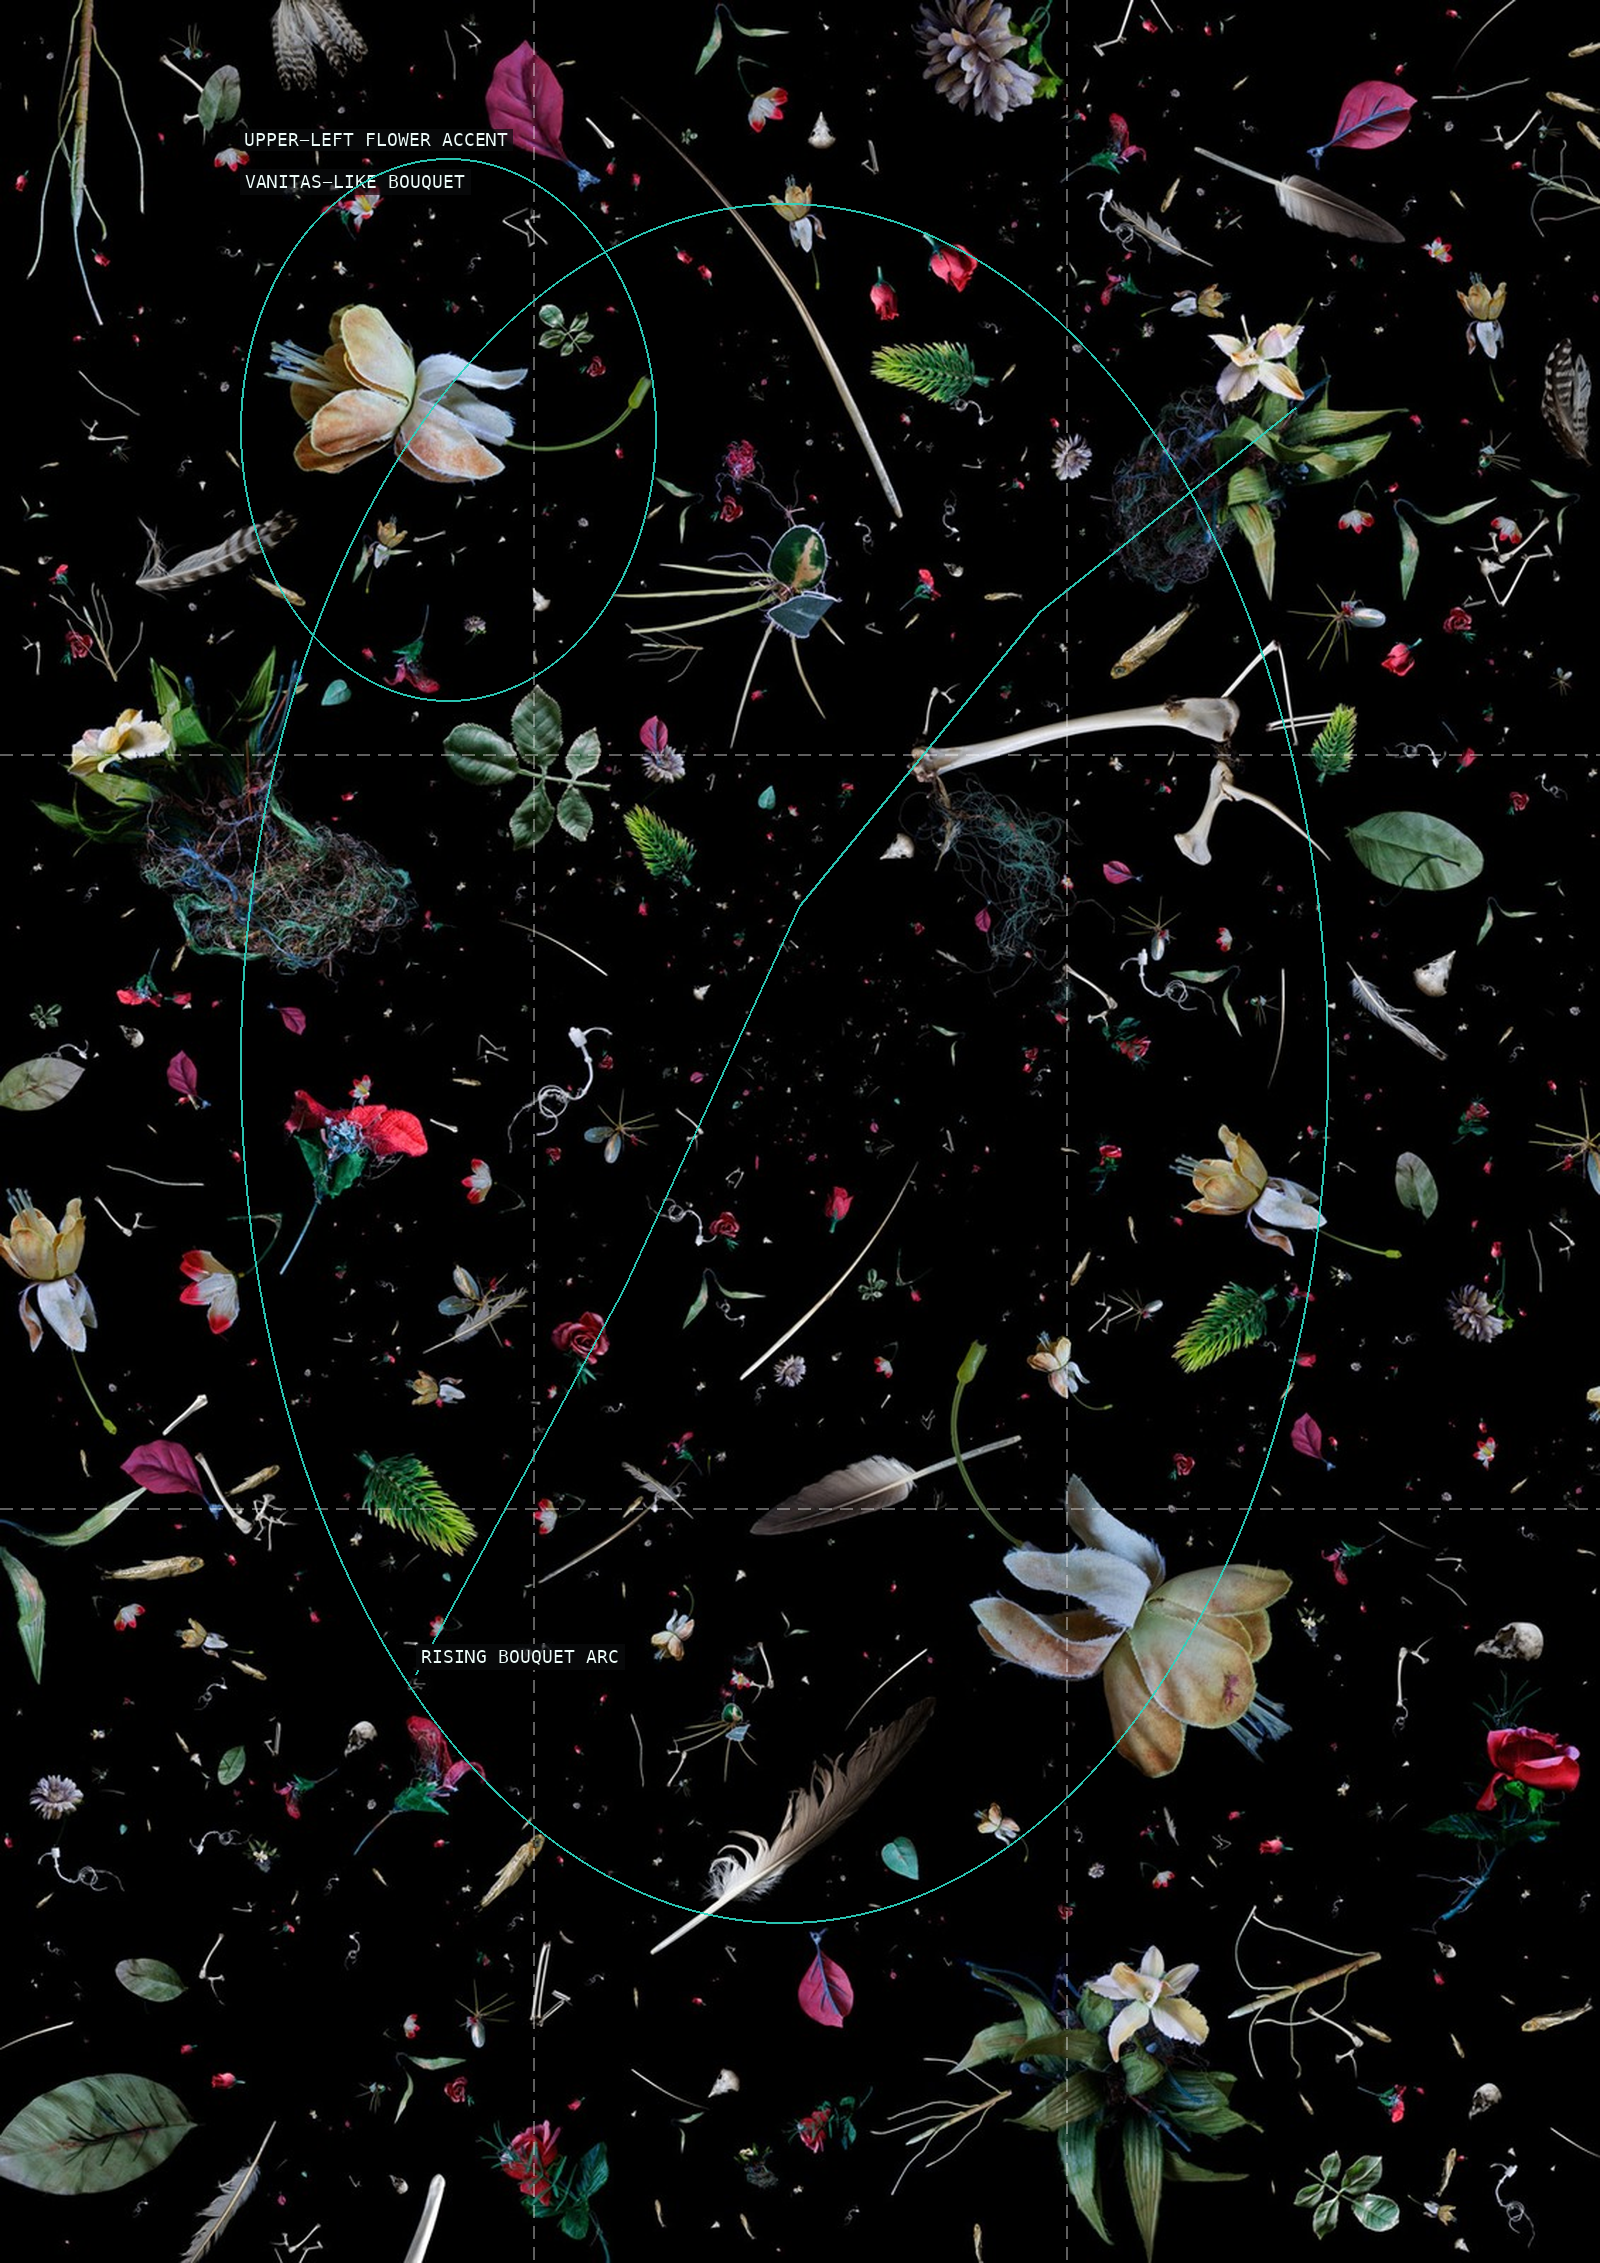
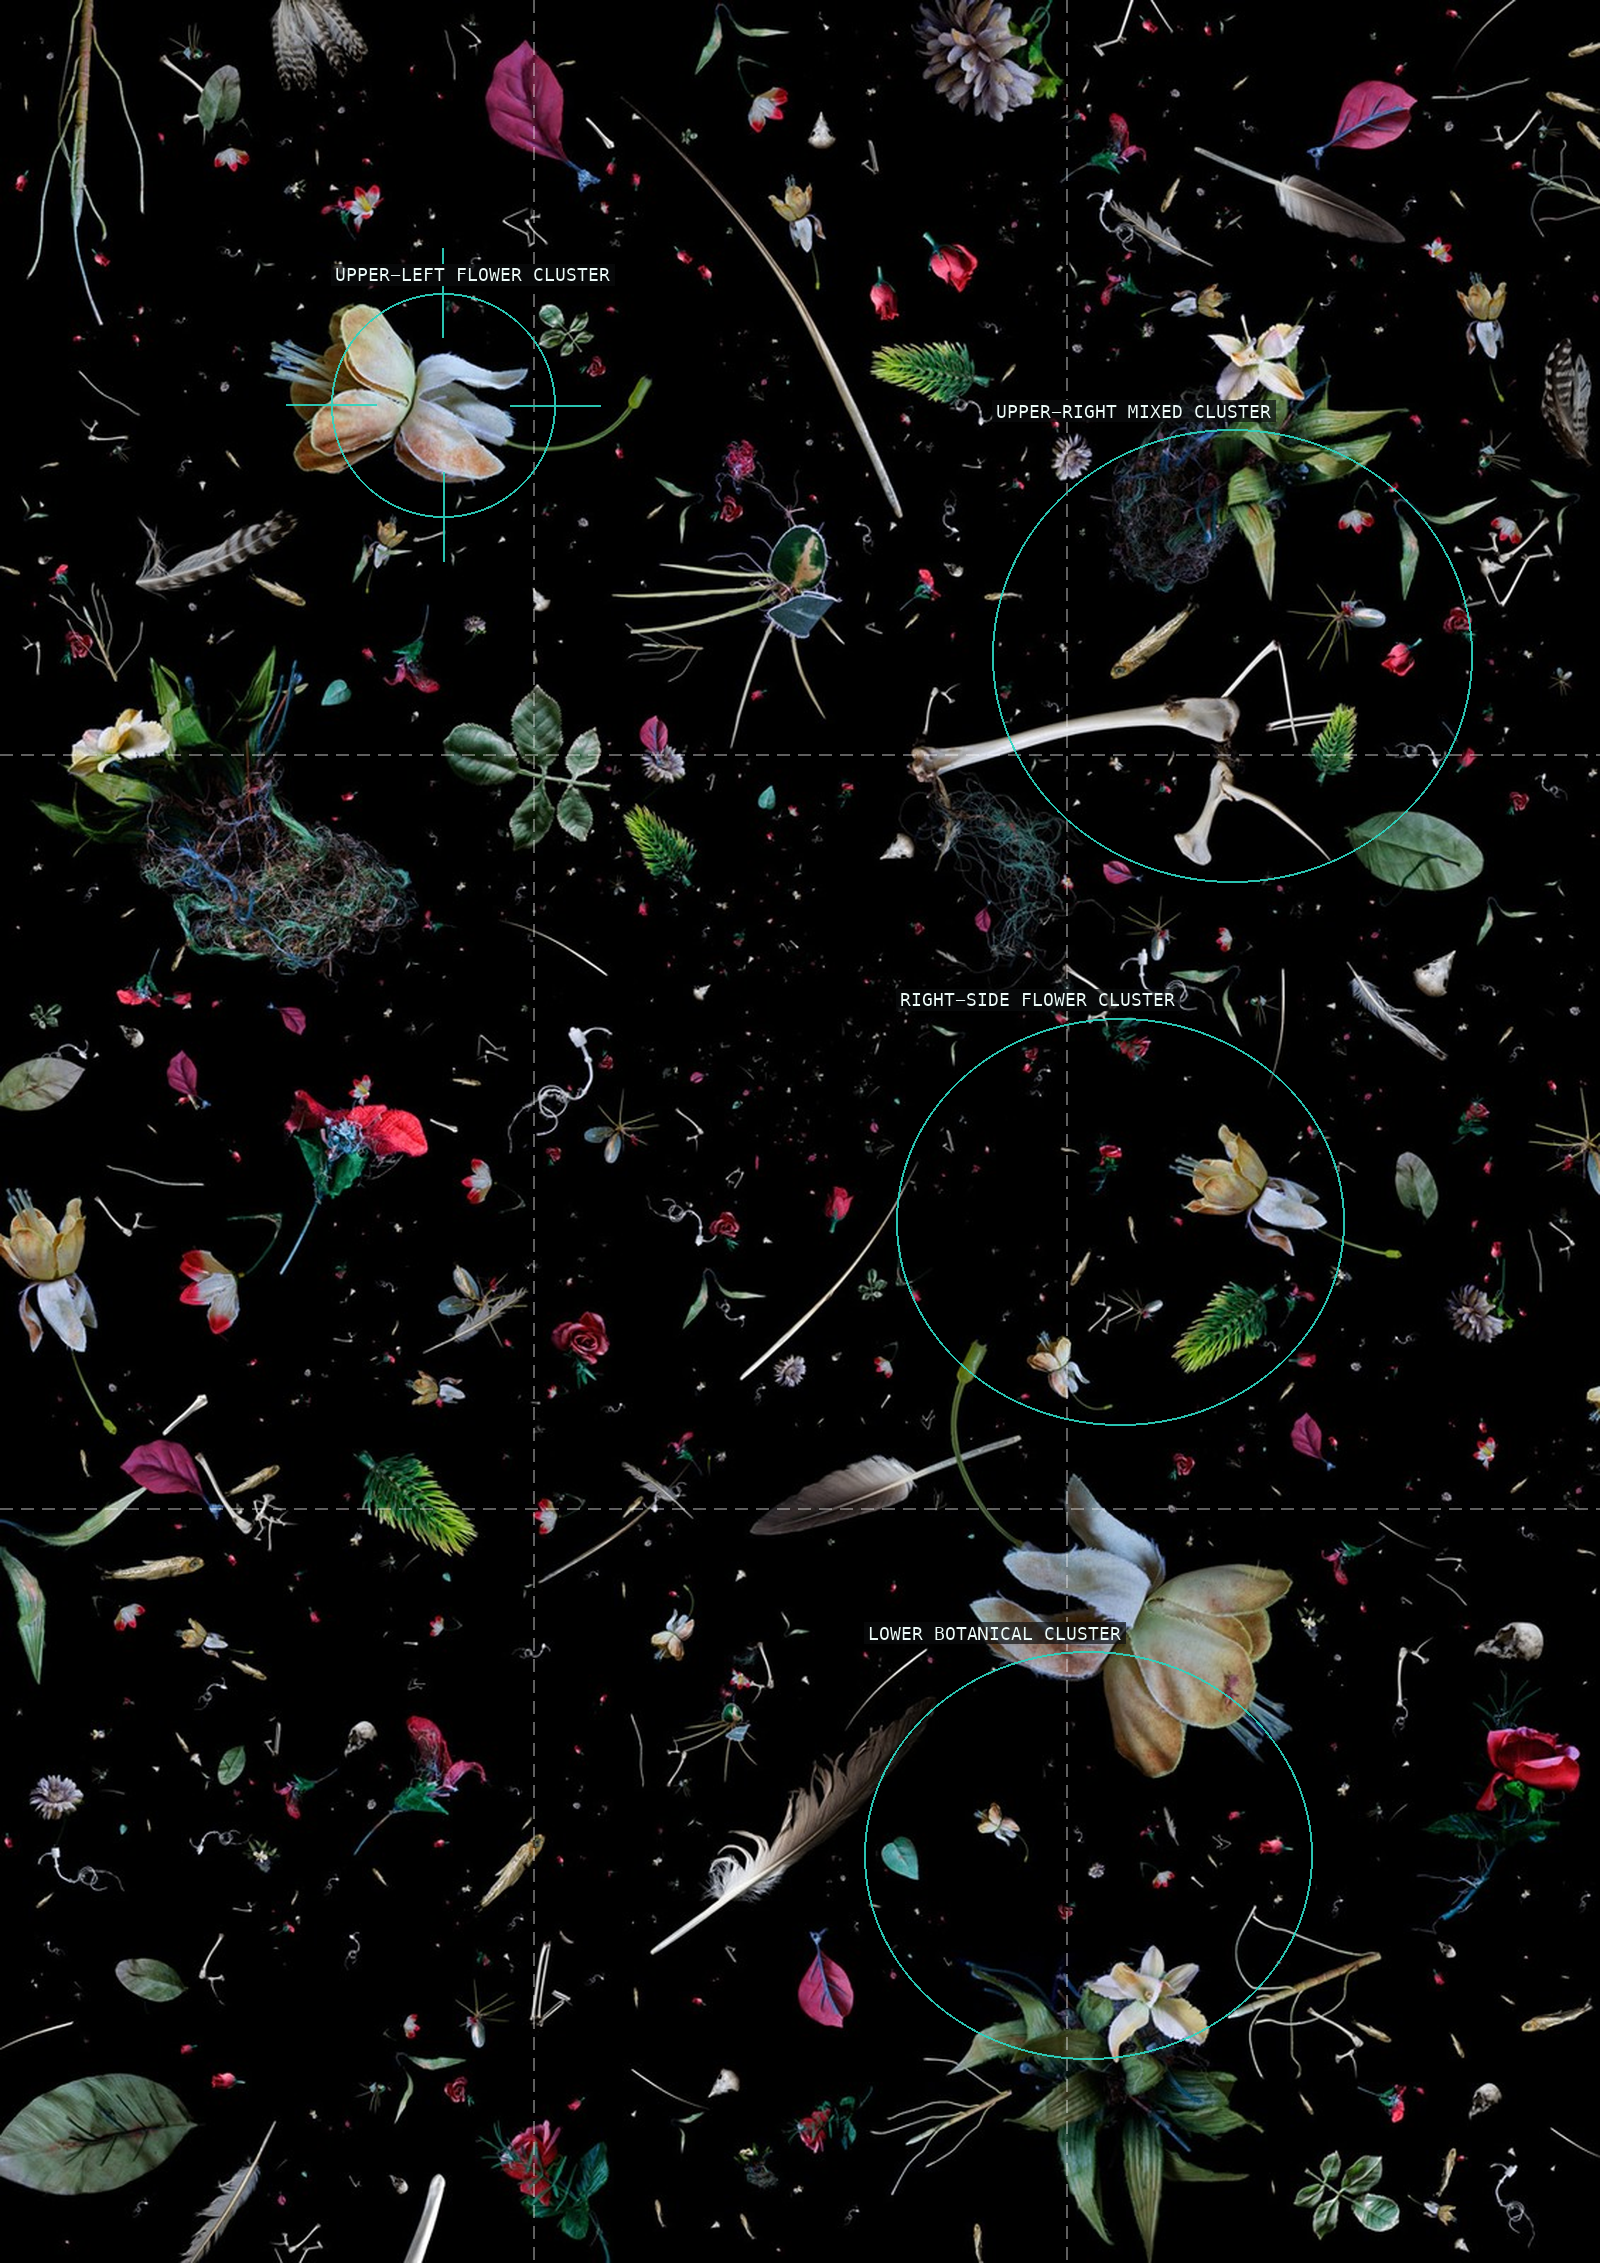
resolve critique: mandy-barker

diff --git a/content/mandy-barker/proofs/index.html b/content/mandy-barker/proofs/index.html
@@ -10,6 +10,6 @@
 <figure><img src="07-soup-fragmented-cups.png" alt="SOUP Fragmented Cups overlay"><figcaption><span class="id">07-soup-fragmented-cups</span><br>Pale cup shards make a thick field with a lower white weight.</figcaption></figure>
 <figure><img src="08-soup-tomato.png" alt="SOUP Tomato overlay"><figcaption><span class="id">08-soup-tomato</span><br>A warm fragment mass leaks outward into black space.</figcaption></figure>
 <figure><img src="09-soup-refused.png" alt="SOUP Refused overlay"><figcaption><span class="id">09-soup-refused</span><br>A compressed lower grouping makes damaged plastic feel bodily.</figcaption></figure>
-<figure><img src="10-soup-ruinous-remembrance.png" alt="SOUP Ruinous Remembrance overlay"><figcaption><span class="id">10-soup-ruinous-remembrance</span><br>A tall asymmetrical bouquet joins flowers, line, and fragments.</figcaption></figure>
+<figure><img src="10-soup-ruinous-remembrance.png" alt="SOUP Ruinous Remembrance overlay"><figcaption><span class="id">10-soup-ruinous-remembrance</span><br>Separate floral and material clusters punctuate a spacious black field.</figcaption></figure>
 <figure><img src="11-soup-500-plus.png" alt="SOUP 500 plus overlay"><figcaption><span class="id">11-soup-500-plus</span><br>A packed colored ring makes its central void consequential.</figcaption></figure>
 </div></body></html>

diff --git a/content/mandy-barker/sources.md b/content/mandy-barker/sources.md
@@ -7,8 +7,8 @@ Mandy Barker’s *SOUP* (2011) turns recovered marine plastic into dark-field, s
 ## Shortlist
 
 ### 01 — *SOUP: Turtle* (2011)
-- **Why it matters:** Repeated yellow bath toys form an exuberant vertical swarm whose nearly even spacing and black gaps turn consumer objects into a false zoological specimen field.
-- **Source:** [Mandy Barker, *Soup Gallery*](https://www.mandy-barker.com/soup/) — [public display file](https://images.squarespace-cdn.com/content/v1/5ca4c742e5f7d11942841f3c/1554380123009-2XVL2Z0UZ142O4XA2CJQ/20.jpg?format=2000w). The artist identifies toys from the 1992 *Ever Laurel* loss, circulating in the North Pacific Gyre for 16 years.
+- **Why it matters:** Repeated blue bath toys form an exuberant vertical swarm whose nearly even spacing and black gaps turn consumer objects into a false zoological specimen field.
+- **Source:** [Mandy Barker, *Soup Gallery*](https://www.mandy-barker.com/soup/) — [public display file](https://images.squarespace-cdn.com/content/v1/5ca4c742e5f7d11942841f3c/1554380123009-2XVL2Z0UZ142O4XA2CJQ/20.jpg?format=2000w). The artist identifies toys from the 1992 *Evergreen Ever Laurel* loss, circulating in the North Pacific Gyre for 16 years.
 - **Use basis:** **fair-use.** © Mandy Barker; artist gallery credit retained. The complete, web-sized frame is needed to teach the dispersed vertical pattern and its deceptive animal-life reading; it is reproduced only for critical scholarship, linked to the artist’s gallery, and cannot replace an authorized print or publication.
 - **File:** `raw/mandy-barker/01-soup-turtle.jpg` (1,800px long edge)
 
@@ -42,9 +42,9 @@ Mandy Barker’s *SOUP* (2011) turns recovered marine plastic into dark-field, s
 - **Use basis:** **fair-use.** © Mandy Barker; artist gallery credit retained. The full web-sized frame is needed to examine the central knot against its peripheral field as composition criticism and scholarship; it is linked and credited and does not replace any authorized reproduction.
 - **File:** `raw/mandy-barker/06-soup-birds-nest.jpg` (1,800px long edge)
 
-### 07 — *SOUP: Fragmented Cups* (2011)
+### 07 — *SOUP: Fragmented Cups* (2012)
 - **Why it matters:** White cup shards are arranged as an expanding cellular field, where repeated crescents and breaks produce a shallow, almost frosted surface.
-- **Source:** [Mandy Barker, *Soup Gallery*](https://www.mandy-barker.com/soup/) — [public display file](https://images.squarespace-cdn.com/content/v1/5ca4c742e5f7d11942841f3c/1554380166561-G7K23OZ4433FIOHNVK3I/29.jpg?format=2000w). A scholarly caption identifies the work as 2012, while artist/museum records place the *SOUP* series in 2011; this chapter records it as 2011 with that uncertainty noted.
+- **Source:** [Mandy Barker, *Soup Gallery*](https://www.mandy-barker.com/soup/) — [public display file](https://images.squarespace-cdn.com/content/v1/5ca4c742e5f7d11942841f3c/1554380166561-G7K23OZ4433FIOHNVK3I/29.jpg?format=2000w). An accessible [University of Technology Sydney scholarly thesis caption](https://opus.lib.uts.edu.au/bitstream/10453/150910/4/02whole.pdf) identifies this work as 2012; the artist gallery identifies the series but supplies no work-specific date. This chapter therefore records the work as 2012.
 - **Use basis:** **fair-use.** © Mandy Barker; artist gallery credit retained. The entire web-sized arrangement is necessary to teach repetition and fragmentation rather than merely illustrate plastic waste; it links to the public record and does not substitute for the artist’s print, book, or licensed reproduction.
 - **File:** `raw/mandy-barker/07-soup-fragmented-cups.jpg` (1,800px long edge)
 
@@ -61,9 +61,9 @@ Mandy Barker’s *SOUP* (2011) turns recovered marine plastic into dark-field, s
 - **File:** `raw/mandy-barker/09-soup-refused.jpg` (1,800px long edge)
 
 ### 10 — *SOUP: Ruinous Remembrance* (2011)
-- **Why it matters:** Artificial flowers, bones, and fishing line form a vanitas-like bouquet: a vertically weighted center held against black space, with small lateral accents preventing symmetry from becoming static.
-- **Source:** [Mandy Barker, *Soup Gallery*](https://www.mandy-barker.com/soup/) — [public display file](https://images.squarespace-cdn.com/content/v1/5ca4c742e5f7d11942841f3c/1554380181004-1DAXIKBD206Y6HMFO4C6/34.jpg?format=2000w). Barker identifies the material as recovered from a one-metre shoreline area at Spurn Point Nature Reserve.
-- **Use basis:** **fair-use.** © Mandy Barker; artist gallery credit retained. Critical instruction needs the complete web-sized bouquet and its surrounding void, not a cropped detail; the credited, linked use does not substitute for a print, exhibition, or licensed reproduction.
+- **Why it matters:** Artificial flowers, bones, and fishing line form separate local clusters across a spacious black field; their uneven placement makes each cluster an anchor rather than a single central bouquet.
+- **Source:** [Mandy Barker, *Soup Gallery*](https://www.mandy-barker.com/soup/) — [public display file](https://images.squarespace-cdn.com/content/v1/5ca4c742e5f7d11942841f3c/1554380181004-1DAXIKBD206Y6HMFO4C6/34.jpg?format=2000w). Barker identifies the material as recovered from a one metre square area of shoreline on Spurn Point Nature Reserve, England.
+- **Use basis:** **fair-use.** © Mandy Barker; artist gallery credit retained. Critical instruction needs the complete web-sized field of dispersed materials and black intervals, not a cropped detail; the credited, linked use does not substitute for a print, exhibition, or licensed reproduction.
 - **File:** `raw/mandy-barker/10-soup-ruinous-remembrance.jpg` (1,800px long edge)
 
 ### 11 — *SOUP: 500+* (2011)

diff --git a/content/mandy-barker/research.md b/content/mandy-barker/research.md
@@ -2,7 +2,7 @@
 
 ## What the supplied records establish
 
-The supplied artist-gallery record identifies this eleven-work selection as *SOUP* (2011). It describes recovered marine plastic arranged in separate material groupings: bath toys from the 1992 *Ever Laurel* loss, translucent fragments, lettered debris, charred fragments, pellets collected from six beaches, fishing line compacted by tidal movement, cup fragments, red plastic, refused plastic, shoreline material from Spurn Point Nature Reserve, and more than 500 pieces recovered from an albatross chick’s digestive tract. The artist gallery is the primary title, material, and public-display source; the supplied SFO Museum record independently corroborates the artist credit and 2011 date for *Nurdles* and *Refused*.
+The supplied artist-gallery record identifies this eleven-work selection as *SOUP* (2011). It describes recovered marine plastic arranged in separate material groupings: bath toys from the 1992 *Evergreen Ever Laurel* loss, translucent fragments, lettered debris, charred fragments, pellets collected from six beaches, fishing line compacted by tidal movement, cup fragments, red plastic, refused plastic, shoreline material from Spurn Point Nature Reserve, and more than 500 pieces recovered from an albatross chick’s digestive tract. The artist gallery is the primary title, material, and public-display source; the supplied SFO Museum record independently corroborates the artist credit and 2011 date for *Nurdles* and *Refused*. An accessible University of Technology Sydney scholarly caption dates *SOUP: Fragmented Cups* to 2012; because the artist gallery provides no work-specific date, the chapter uses that evidenced date for the individual work.
 
 The selection is a serial still-life practice: discrete found material is made into a dark-field picture in which collecting, sorting, repeated placement, interval, and negative space are structural rather than merely illustrative. The documents support those material histories and the series date. They do not document the exact production sequence, lighting arrangement, digital-compositing workflow, print edition, paper, ink, or dimensions for these individual works.
 

diff --git a/content/mandy-barker/critique.md b/content/mandy-barker/critique.md
@@ -1,4 +1,4 @@
-verdict: revise
+verdict: resolved
 
 ## Critique round — 2026-08-03
 
@@ -17,3 +17,12 @@ verdict: revise
 ### Advisory (non-blocking)
 
 None.
+
+## Builder resolution — 2026-08-03
+
+1. Corrected the source note to identify the visible toys as blue and restored the artist gallery’s full ship name, *Evergreen Ever Laurel*, in `sources.md`, `research.md`, and both byte-identical chapter copies.
+2. Changed *SOUP: Fragmented Cups* to 2012 in the source record and plate label, with the linked University of Technology Sydney scholarly caption as the work-specific date evidence.
+3. Restored the artist gallery’s precise provenance wording for *Ruinous Remembrance*: materials recovered from a one metre square area of shoreline on Spurn Point Nature Reserve, England.
+4. Re-ran analysis, rendered two overlay iterations, visually inspected the resulting proof, and replaced the unsupported central-bouquet/arc argument with four discrete, visibly bounded clusters. The final overlay scores 97/100 with no geometric deductions.
+
+Re-verified every required fix from the full critique history: 2026-08-03 round (this and only prior round). `scripts/check.sh` passes, including pipeline validation, chapter synchronization, prose lint, tests, build, and the site smoke gate.
